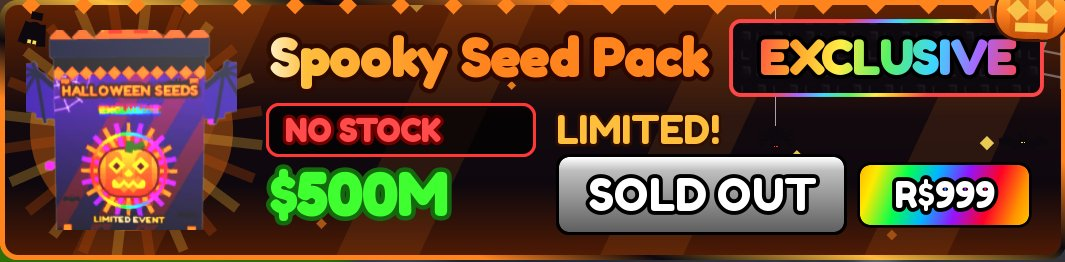
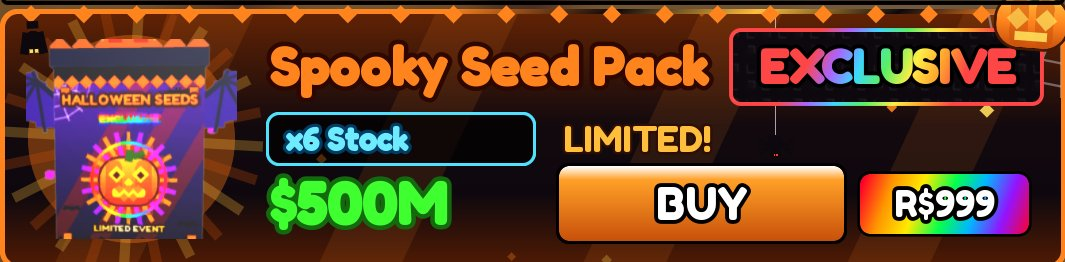
Mise a jour des stats

diff --git a/historique.js b/historique.js
@@ -1,4 +1,4 @@
-window.HISTORY = [["2026-10-14T00:55:39", "debut", "", ""], ["2026-10-14T01:25:29", "stock", "seed", "Spooky Seed Pack"], ["2026-10-14T01:30:10", "stock", "seed", "Celestial Seed Pack"], ["2026-10-14T02:05:31", "stock", "seed", "Spooky Seed Pack"], ["2026-10-14T02:40:12", "stock", "seed", "Celestial Seed Pack"], ["2026-10-14T02:40:12", "fin", "", ""], ["2026-10-14T06:29:55", "debut", "", ""], ["2026-10-14T07:09:20", "stock", "eggs", "Inferno Egg"], ["2026-10-14T07:09:22", "stock", "eggs", "Solar Egg"], ["2026-10-14T08:30:22", "stock", "seed", "Celestial Seed Pack"], ["2026-10-14T09:46:36", "fin", "", ""], ["2026-10-14T10:49:48", "debut", "", ""], ["2026-10-14T11:17:42", "fin", "", ""], ["2026-10-14T11:25:19", "debut", "", ""], ["2026-10-14T11:56:44", "fin", "", ""], ["2026-10-14T12:49:54", "debut", "", ""], ["2026-10-14T14:45:01", "stock", "seed", "Celestial Seed Pack"], ["2026-10-14T16:45:05", "stock", "seed", "Spooky Seed Pack"], ["2026-10-14T18:32:27", "stock", "seed", "Celestial Seed Pack"], ["2026-10-14T18:35:08", "stock", "seed", "Mutant Seed Pack"], ["2026-10-14T19:00:28", "stock", "seed", "Void Seed Pack"], ["2026-10-14T19:09:54", "fin", "", ""], ["2026-10-14T19:15:13", "debut", "", ""], ["2026-10-14T19:15:38", "stock", "seed", "Spooky Seed Pack"], ["2026-10-14T19:19:49", "fin", "", ""], ["2026-10-14T19:21:52", "debut", "", ""], ["2026-10-14T19:35:38", "stock", "seed", "Mutant Seed Pack"], ["2026-10-14T20:10:19", "stock", "seed", "Mutant Seed Pack"], ["2026-10-14T20:28:39", "stock", "eggs", "Inferno Egg"], ["2026-10-14T20:45:00", "stock", "seed", "Mutant Seed Pack"], ["2026-10-14T20:45:02", "stock", "seed", "Celestial Seed Pack"], ["2026-10-14T20:55:00", "stock", "seed", "Mutant Seed Pack"], ["2026-10-14T21:35:29", "fin", "", ""], ["2026-10-14T23:15:27", "debut", "", ""], ["2026-10-14T23:25:12", "stock", "seed", "Celestial Seed Pack"], ["2026-10-14T23:35:12", "stock", "seed", "Spooky Seed Pack"], ["2026-10-14T23:45:13", "stock", "seed", "Celestial Seed Pack"], ["2026-10-14T23:55:13", "stock", "seed", "Void Seed Pack"], ["2026-10-15T01:07:19", "fin", "", ""], ["2026-10-15T01:20:12", "debut", "", ""], ["2026-10-15T01:20:28", "fin", "", ""], ["2026-10-15T01:20:33", "debut", "", ""], ["2026-10-15T01:25:03", "stock", "seed", "Mutant Seed Pack"], ["2026-10-15T02:15:00", "stock", "seed", "Spooky Seed Pack"], ["2026-10-15T02:22:36", "stock", "eggs", "Inferno Egg"], ["2026-10-15T02:22:56", "stock", "eggs", "Inferno Egg"], ["2026-10-15T02:23:16", "stock", "eggs", "Inferno Egg"], ["2026-10-15T02:23:36", "stock", "eggs", "Inferno Egg"], ["2026-10-15T02:27:40", "fin", "", ""], ["2026-10-15T02:28:43", "debut", "", ""], ["2026-10-15T02:32:00", "fin", "", ""], ["2026-10-15T02:35:35", "debut", "", ""], ["2026-10-15T02:45:20", "stock", "seed", "Celestial Seed Pack"], ["2026-10-15T02:45:40", "stock", "eggs", "Solar Egg"], ["2026-10-15T02:50:00", "stock", "seed", "Mutant Seed Pack"], ["2026-10-15T05:20:04", "stock", "seed", "Spooky Seed Pack"], ["2026-10-15T05:25:24", "stock", "seed", "Void Seed Pack"], ["2026-10-15T05:55:25", "stock", "seed", "Mutant Seed Pack"], ["2026-10-15T07:15:27", "stock", "seed", "Celestial Seed Pack"], ["2026-10-15T07:30:07", "stock", "seed", "Celestial Seed Pack"], ["2026-10-15T07:50:08", "stock", "seed", "Mutant Seed Pack"], ["2026-10-15T08:04:28", "stock", "eggs", "Sealed Eye Egg"], ["2026-10-15T08:45:29", "stock", "seed", "Celestial Seed Pack"], ["2026-10-15T09:50:11", "stock", "seed", "Mutant Seed Pack"], ["2026-10-15T09:50:14", "stock", "seed", "Celestial Seed Pack"], ["2026-10-15T10:30:12", "stock", "seed", "Mutant Seed Pack"], ["2026-10-15T11:03:05", "fin", "", ""], ["2026-10-15T11:13:30", "debut", "", ""], ["2026-10-15T11:17:01", "fin", "", ""], ["2026-10-15T12:26:22", "debut", "", ""], ["2026-10-15T12:35:27", "stock", "seed", "Mutant Seed Pack"], ["2026-10-15T13:00:07", "stock", "seed", "Void Seed Pack"], ["2026-10-15T13:01:59", "fin", "", ""], ["2026-10-15T13:03:01", "debut", "", ""], ["2026-10-15T13:05:26", "stock", "seed", "Celestial Seed Pack"], ["2026-10-15T13:10:06", "stock", "seed", "Mutant Seed Pack"], ["2026-10-15T13:10:43", "fin", "", ""], ["2026-10-15T13:11:47", "debut", "", ""], ["2026-10-15T14:30:14", "stock", "seed", "Spooky Seed Pack"], ["2026-10-15T14:40:14", "stock", "seed", "Mutant Seed Pack"], ["2026-10-15T16:37:57", "stock", "eggs", "Inferno Egg"], ["2026-10-15T16:50:18", "stock", "seed", "Spooky Seed Pack"], ["2026-10-15T17:15:38", "stock", "seed", "Void Seed Pack"], ["2026-10-15T18:45:01", "stock", "seed", "Spooky Seed Pack"], ["2026-10-15T19:15:02", "stock", "seed", "Mutant Seed Pack"], ["2026-10-15T20:45:00", "stock", "seed", "Celestial Seed Pack"], ["2026-10-15T21:27:32", "fin", "", ""], ["2026-10-15T21:33:02", "debut", "", ""], ["2026-10-15T23:10:29", "fin", "", ""], ["2026-10-16T00:20:07", "debut", "", ""], ["2026-10-16T00:52:33", "stock", "seed", "Mutant Seed Pack"], ["2026-10-16T01:20:34", "stock", "seed", "Mutant Seed Pack"], ["2026-10-16T01:20:34", "stock", "seed", "Celestial Seed Pack"], ["2026-10-16T02:00:35", "stock", "seed", "Spooky Seed Pack"], ["2026-10-16T02:40:36", "stock", "seed", "Spooky Seed Pack"], ["2026-10-16T02:45:16", "stock", "seed", "Spooky Seed Pack"], ["2026-10-16T03:55:17", "stock", "seed", "Mutant Seed Pack"], ["2026-10-16T04:10:38", "stock", "seed", "Mutant Seed Pack"], ["2026-10-16T05:50:00", "stock", "seed", "Spooky Seed Pack"], ["2026-10-16T06:35:21", "stock", "seed", "Spooky Seed Pack"], ["2026-10-16T06:40:01", "stock", "seed", "Celestial Seed Pack"], ["2026-10-16T06:50:01", "stock", "seed", "Void Seed Pack"], ["2026-10-16T07:10:02", "stock", "seed", "Mutant Seed Pack"], ["2026-10-16T08:32:47", "fin", "", ""], ["2026-10-16T08:48:47", "debut", "", ""], ["2026-10-16T08:50:31", "stock", "seed", "Void Seed Pack"], ["2026-10-16T09:00:32", "stock", "seed", "Mutant Seed Pack"], ["2026-10-16T09:24:32", "fin", "", ""], ["2026-10-16T09:25:26", "debut", "", ""], ["2026-10-16T09:45:11", "stock", "seed", "Void Seed Pack"], ["2026-10-16T10:20:32", "stock", "seed", "Void Seed Pack"], ["2026-10-16T11:10:33", "stock", "seed", "Spooky Seed Pack"], ["2026-10-16T11:28:53", "stock", "eggs", "Solar Egg"], ["2026-10-16T12:10:34", "stock", "seed", "Spooky Seed Pack"], ["2026-10-16T13:03:50", "fin", "", ""], ["2026-10-16T13:08:05", "debut", "", ""], ["2026-10-16T13:15:29", "stock", "eggs", "Solar Egg"], ["2026-10-16T14:37:31", "stock", "eggs", "Inferno Egg"], ["2026-10-16T15:07:31", "fin", "", ""], ["2026-10-16T15:12:42", "debut", "", ""], ["2026-10-16T15:35:07", "stock", "seed", "Celestial Seed Pack"], ["2026-10-16T16:00:28", "stock", "seed", "Mutant Seed Pack"], ["2026-10-16T16:20:28", "stock", "seed", "Celestial Seed Pack"], ["2026-10-16T17:55:11", "stock", "seed", "Celestial Seed Pack"], ["2026-10-16T19:10:33", "stock", "seed", "Void Seed Pack"], ["2026-10-16T19:23:33", "stock", "eggs", "Inferno Egg"], ["2026-10-16T19:26:13", "stock", "eggs", "Sealed Eye Egg"], ["2026-10-16T19:30:08", "fin", "", ""], ["2026-10-16T19:31:11", "debut", "", ""], ["2026-10-16T19:40:16", "stock", "seed", "Mutant Seed Pack"], ["2026-10-16T21:02:37", "fin", "", ""], ["2026-10-16T23:01:21", "debut", "", ""], ["2026-10-16T23:01:30", "fin", "", ""], ["2026-10-16T23:03:40", "debut", "", ""], ["2026-10-16T23:03:43", "fin", "", ""], ["2026-10-16T23:06:38", "debut", "", ""], ["2026-10-16T23:06:41", "fin", "", ""], ["2026-10-16T23:09:21", "debut", "", ""], ["2026-10-16T23:09:29", "fin", "", ""], ["2026-10-16T23:15:48", "debut", "", ""], ["2026-10-17T00:00:14", "stock", "seed", "Spooky Seed Pack"], ["2026-10-17T00:21:33", "fin", "", ""], ["2026-10-17T00:35:25", "debut", "", ""], ["2026-10-17T00:35:49", "stock", "seed", "Spooky Seed Pack"], ["2026-10-17T00:35:55", "fin", "", ""], ["2026-10-17T00:55:32", "debut", "", ""], ["2026-10-17T00:55:59", "stock", "seed", "Celestial Seed Pack"], ["2026-10-17T00:56:02", "fin", "", ""]];
+window.HISTORY = [["2026-10-14T00:55:39", "debut", "", ""], ["2026-10-14T01:25:29", "stock", "seed", "Spooky Seed Pack"], ["2026-10-14T01:30:10", "stock", "seed", "Celestial Seed Pack"], ["2026-10-14T02:05:31", "stock", "seed", "Spooky Seed Pack"], ["2026-10-14T02:40:12", "stock", "seed", "Celestial Seed Pack"], ["2026-10-14T02:40:12", "fin", "", ""], ["2026-10-14T06:29:55", "debut", "", ""], ["2026-10-14T07:09:20", "stock", "eggs", "Inferno Egg"], ["2026-10-14T07:09:22", "stock", "eggs", "Solar Egg"], ["2026-10-14T08:30:22", "stock", "seed", "Celestial Seed Pack"], ["2026-10-14T09:46:36", "fin", "", ""], ["2026-10-14T10:49:48", "debut", "", ""], ["2026-10-14T11:17:42", "fin", "", ""], ["2026-10-14T11:25:19", "debut", "", ""], ["2026-10-14T11:56:44", "fin", "", ""], ["2026-10-14T12:49:54", "debut", "", ""], ["2026-10-14T14:45:01", "stock", "seed", "Celestial Seed Pack"], ["2026-10-14T16:45:05", "stock", "seed", "Spooky Seed Pack"], ["2026-10-14T18:32:27", "stock", "seed", "Celestial Seed Pack"], ["2026-10-14T18:35:08", "stock", "seed", "Mutant Seed Pack"], ["2026-10-14T19:00:28", "stock", "seed", "Void Seed Pack"], ["2026-10-14T19:09:54", "fin", "", ""], ["2026-10-14T19:15:13", "debut", "", ""], ["2026-10-14T19:15:38", "stock", "seed", "Spooky Seed Pack"], ["2026-10-14T19:19:49", "fin", "", ""], ["2026-10-14T19:21:52", "debut", "", ""], ["2026-10-14T19:35:38", "stock", "seed", "Mutant Seed Pack"], ["2026-10-14T20:10:19", "stock", "seed", "Mutant Seed Pack"], ["2026-10-14T20:28:39", "stock", "eggs", "Inferno Egg"], ["2026-10-14T20:45:00", "stock", "seed", "Mutant Seed Pack"], ["2026-10-14T20:45:02", "stock", "seed", "Celestial Seed Pack"], ["2026-10-14T20:55:00", "stock", "seed", "Mutant Seed Pack"], ["2026-10-14T21:35:29", "fin", "", ""], ["2026-10-14T23:15:27", "debut", "", ""], ["2026-10-14T23:25:12", "stock", "seed", "Celestial Seed Pack"], ["2026-10-14T23:35:12", "stock", "seed", "Spooky Seed Pack"], ["2026-10-14T23:45:13", "stock", "seed", "Celestial Seed Pack"], ["2026-10-14T23:55:13", "stock", "seed", "Void Seed Pack"], ["2026-10-15T01:07:19", "fin", "", ""], ["2026-10-15T01:20:12", "debut", "", ""], ["2026-10-15T01:20:28", "fin", "", ""], ["2026-10-15T01:20:33", "debut", "", ""], ["2026-10-15T01:25:03", "stock", "seed", "Mutant Seed Pack"], ["2026-10-15T02:15:00", "stock", "seed", "Spooky Seed Pack"], ["2026-10-15T02:22:36", "stock", "eggs", "Inferno Egg"], ["2026-10-15T02:22:56", "stock", "eggs", "Inferno Egg"], ["2026-10-15T02:23:16", "stock", "eggs", "Inferno Egg"], ["2026-10-15T02:23:36", "stock", "eggs", "Inferno Egg"], ["2026-10-15T02:27:40", "fin", "", ""], ["2026-10-15T02:28:43", "debut", "", ""], ["2026-10-15T02:32:00", "fin", "", ""], ["2026-10-15T02:35:35", "debut", "", ""], ["2026-10-15T02:45:20", "stock", "seed", "Celestial Seed Pack"], ["2026-10-15T02:45:40", "stock", "eggs", "Solar Egg"], ["2026-10-15T02:50:00", "stock", "seed", "Mutant Seed Pack"], ["2026-10-15T05:20:04", "stock", "seed", "Spooky Seed Pack"], ["2026-10-15T05:25:24", "stock", "seed", "Void Seed Pack"], ["2026-10-15T05:55:25", "stock", "seed", "Mutant Seed Pack"], ["2026-10-15T07:15:27", "stock", "seed", "Celestial Seed Pack"], ["2026-10-15T07:30:07", "stock", "seed", "Celestial Seed Pack"], ["2026-10-15T07:50:08", "stock", "seed", "Mutant Seed Pack"], ["2026-10-15T08:04:28", "stock", "eggs", "Sealed Eye Egg"], ["2026-10-15T08:45:29", "stock", "seed", "Celestial Seed Pack"], ["2026-10-15T09:50:11", "stock", "seed", "Mutant Seed Pack"], ["2026-10-15T09:50:14", "stock", "seed", "Celestial Seed Pack"], ["2026-10-15T10:30:12", "stock", "seed", "Mutant Seed Pack"], ["2026-10-15T11:03:05", "fin", "", ""], ["2026-10-15T11:13:30", "debut", "", ""], ["2026-10-15T11:17:01", "fin", "", ""], ["2026-10-15T12:26:22", "debut", "", ""], ["2026-10-15T12:35:27", "stock", "seed", "Mutant Seed Pack"], ["2026-10-15T13:00:07", "stock", "seed", "Void Seed Pack"], ["2026-10-15T13:01:59", "fin", "", ""], ["2026-10-15T13:03:01", "debut", "", ""], ["2026-10-15T13:05:26", "stock", "seed", "Celestial Seed Pack"], ["2026-10-15T13:10:06", "stock", "seed", "Mutant Seed Pack"], ["2026-10-15T13:10:43", "fin", "", ""], ["2026-10-15T13:11:47", "debut", "", ""], ["2026-10-15T14:30:14", "stock", "seed", "Spooky Seed Pack"], ["2026-10-15T14:40:14", "stock", "seed", "Mutant Seed Pack"], ["2026-10-15T16:37:57", "stock", "eggs", "Inferno Egg"], ["2026-10-15T16:50:18", "stock", "seed", "Spooky Seed Pack"], ["2026-10-15T17:15:38", "stock", "seed", "Void Seed Pack"], ["2026-10-15T18:45:01", "stock", "seed", "Spooky Seed Pack"], ["2026-10-15T19:15:02", "stock", "seed", "Mutant Seed Pack"], ["2026-10-15T20:45:00", "stock", "seed", "Celestial Seed Pack"], ["2026-10-15T21:27:32", "fin", "", ""], ["2026-10-15T21:33:02", "debut", "", ""], ["2026-10-15T23:10:29", "fin", "", ""], ["2026-10-16T00:20:07", "debut", "", ""], ["2026-10-16T00:52:33", "stock", "seed", "Mutant Seed Pack"], ["2026-10-16T01:20:34", "stock", "seed", "Mutant Seed Pack"], ["2026-10-16T01:20:34", "stock", "seed", "Celestial Seed Pack"], ["2026-10-16T02:00:35", "stock", "seed", "Spooky Seed Pack"], ["2026-10-16T02:40:36", "stock", "seed", "Spooky Seed Pack"], ["2026-10-16T02:45:16", "stock", "seed", "Spooky Seed Pack"], ["2026-10-16T03:55:17", "stock", "seed", "Mutant Seed Pack"], ["2026-10-16T04:10:38", "stock", "seed", "Mutant Seed Pack"], ["2026-10-16T05:50:00", "stock", "seed", "Spooky Seed Pack"], ["2026-10-16T06:35:21", "stock", "seed", "Spooky Seed Pack"], ["2026-10-16T06:40:01", "stock", "seed", "Celestial Seed Pack"], ["2026-10-16T06:50:01", "stock", "seed", "Void Seed Pack"], ["2026-10-16T07:10:02", "stock", "seed", "Mutant Seed Pack"], ["2026-10-16T08:32:47", "fin", "", ""], ["2026-10-16T08:48:47", "debut", "", ""], ["2026-10-16T08:50:31", "stock", "seed", "Void Seed Pack"], ["2026-10-16T09:00:32", "stock", "seed", "Mutant Seed Pack"], ["2026-10-16T09:24:32", "fin", "", ""], ["2026-10-16T09:25:26", "debut", "", ""], ["2026-10-16T09:45:11", "stock", "seed", "Void Seed Pack"], ["2026-10-16T10:20:32", "stock", "seed", "Void Seed Pack"], ["2026-10-16T11:10:33", "stock", "seed", "Spooky Seed Pack"], ["2026-10-16T11:28:53", "stock", "eggs", "Solar Egg"], ["2026-10-16T12:10:34", "stock", "seed", "Spooky Seed Pack"], ["2026-10-16T13:03:50", "fin", "", ""], ["2026-10-16T13:08:05", "debut", "", ""], ["2026-10-16T13:15:29", "stock", "eggs", "Solar Egg"], ["2026-10-16T14:37:31", "stock", "eggs", "Inferno Egg"], ["2026-10-16T15:07:31", "fin", "", ""], ["2026-10-16T15:12:42", "debut", "", ""], ["2026-10-16T15:35:07", "stock", "seed", "Celestial Seed Pack"], ["2026-10-16T16:00:28", "stock", "seed", "Mutant Seed Pack"], ["2026-10-16T16:20:28", "stock", "seed", "Celestial Seed Pack"], ["2026-10-16T17:55:11", "stock", "seed", "Celestial Seed Pack"], ["2026-10-16T19:10:33", "stock", "seed", "Void Seed Pack"], ["2026-10-16T19:23:33", "stock", "eggs", "Inferno Egg"], ["2026-10-16T19:26:13", "stock", "eggs", "Sealed Eye Egg"], ["2026-10-16T19:30:08", "fin", "", ""], ["2026-10-16T19:31:11", "debut", "", ""], ["2026-10-16T19:40:16", "stock", "seed", "Mutant Seed Pack"], ["2026-10-16T21:02:37", "fin", "", ""], ["2026-10-16T23:01:21", "debut", "", ""], ["2026-10-16T23:01:30", "fin", "", ""], ["2026-10-16T23:03:40", "debut", "", ""], ["2026-10-16T23:03:43", "fin", "", ""], ["2026-10-16T23:06:38", "debut", "", ""], ["2026-10-16T23:06:41", "fin", "", ""], ["2026-10-16T23:09:21", "debut", "", ""], ["2026-10-16T23:09:29", "fin", "", ""], ["2026-10-16T23:15:48", "debut", "", ""], ["2026-10-17T00:00:14", "stock", "seed", "Spooky Seed Pack"], ["2026-10-17T00:21:33", "fin", "", ""], ["2026-10-17T00:35:25", "debut", "", ""], ["2026-10-17T00:35:49", "stock", "seed", "Spooky Seed Pack"], ["2026-10-17T00:35:55", "fin", "", ""], ["2026-10-17T00:55:32", "debut", "", ""], ["2026-10-17T00:55:59", "stock", "seed", "Celestial Seed Pack"], ["2026-10-17T00:56:02", "fin", "", ""], ["2026-10-17T01:10:53", "debut", "", ""], ["2026-10-17T01:10:58", "stock", "eggs", "Sealed Eye Egg"], ["2026-10-17T01:11:17", "stock", "seed", "Spooky Seed Pack"], ["2026-10-17T01:11:23", "fin", "", ""]];
 window.ITEMS = [{"shop": "eggs", "name": "Inferno Egg"}, {"shop": "eggs", "name": "Solar Egg"}, {"shop": "eggs", "name": "Sealed Eye Egg"}, {"shop": "eggs", "name": "Abyss Egg"}, {"shop": "seed", "name": "Void Seed Pack"}, {"shop": "seed", "name": "Celestial Seed Pack"}, {"shop": "seed", "name": "Spooky Seed Pack"}, {"shop": "seed", "name": "Mutant Seed Pack"}];
-window.GENERATED = "2026-10-17T01:09:09";
+window.GENERATED = "2026-10-17T01:11:24";
 window.BOT = {"actif": false};

diff --git a/articles.js b/articles.js
@@ -1,1 +1,1 @@
-window.ARTICLE_IMAGES = {"Inferno Egg": "articles/inferno-egg.jpg?v=1792192117", "Solar Egg": "articles/solar-egg.jpg?v=1792192117", "Sealed Eye Egg": "articles/sealed-eye-egg.jpg?v=1792192117", "Abyss Egg": "articles/abyss-egg.jpg?v=1792192117", "Void Seed Pack": "articles/void-seed-pack.jpg?v=1792192117", "Celestial Seed Pack": "articles/celestial-seed-pack.jpg?v=1792192117", "Spooky Seed Pack": "articles/spooky-seed-pack.jpg?v=1792192117"};
+window.ARTICLE_IMAGES = {"Inferno Egg": "articles/inferno-egg.jpg?v=1792192117", "Solar Egg": "articles/solar-egg.jpg?v=1792192117", "Sealed Eye Egg": "articles/sealed-eye-egg.jpg?v=1792192258", "Abyss Egg": "articles/abyss-egg.jpg?v=1792192117", "Void Seed Pack": "articles/void-seed-pack.jpg?v=1792192117", "Celestial Seed Pack": "articles/celestial-seed-pack.jpg?v=1792192117", "Spooky Seed Pack": "articles/spooky-seed-pack.jpg?v=1792192278"};
